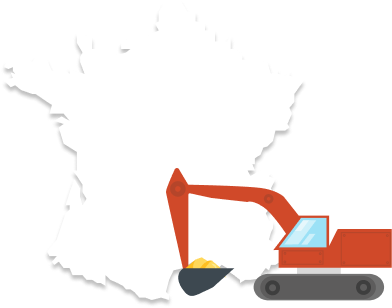
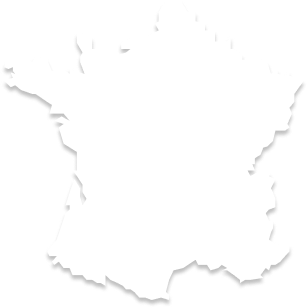
Intégration des Lotties

diff --git a/index.html b/index.html
@@ -1,11 +1,11 @@
 <!DOCTYPE html>
-<html lang="en">
+<html lang="fr">
 
 <head>
   <meta charset="UTF-8" />
   <meta name="viewport" content="width=device-width, initial-scale=1.0" />
   <title>Le sable, une ressource fragile?</title>
-  <link href="./src/style.css" rel="stylesheet" type="text/css"/>
+  <link href="./src/style.css" rel="stylesheet" type="text/css" />
   <link rel="icon" href="./assets/ademe-logo-2022-1.svg" type="image/x-icon">
   <script src="https://unpkg.com/@lottiefiles/dotlottie-wc@0.8.11/dist/dotlottie-wc.js" type="module"></script>
 
@@ -17,8 +17,7 @@
     <section class="grid grid-cols-1 grid-rows-1 h-screen bg-bg-blue">
 
       <!-- Pile de sable solo -->
-      <img class="col-span-full row-span-full w-auto h-auto justify-self-end mt-40"
-        src="./assets/single-sand-pile.png">
+      <img class="col-span-full row-span-full w-auto h-auto justify-self-end mt-40" src="./assets/single-sand-pile.png">
 
 
       <!-- Road bis -->
@@ -56,13 +55,16 @@
     <!-- Section 2 -->
     <section class="overflow-visible relative grid grid-cols-1 grid-rows-1 h-fit bg-bg-blue">
 
-      <h1 class="z-20 col-span-full row-span-full justify-self-start text-left font-extrabold text-4xl md:text-7xl lg:text-7xl max-w-350 pl-10 lg:pl-40 pb-100 mr-20"> 
+      <h1
+        class="z-20 col-span-full row-span-full justify-self-start text-left font-extrabold text-4xl md:text-7xl lg:text-7xl max-w-350 pl-10 lg:pl-40 pb-100 mr-20">
         50 milliards de tonnes de sable extraites chaque année</h1>
 
 
       <!-- transition piles de sables -->
       <section class="z-10 col-span-full row-span-full justify-self-end w-full">
-        <img class="pointer-events-none absolute bottom-50 lg:bottom-100 left-1/2 -translate-x-1/2 translate-y-1/2 w-full h-auto object-cover" src="./assets/sand-pile-transition.png" alt="Transition sable">
+        <img
+          class="pointer-events-none absolute bottom-50 lg:bottom-100 left-1/2 -translate-x-1/2 translate-y-1/2 w-full h-auto object-cover"
+          src="./assets/sand-pile-transition.png" alt="Transition sable">
       </section>
 
     </section>
@@ -70,7 +72,7 @@
 
 
 
-    
+
     <!-- Section 3 -->
     <section class="relative grid grid-cols-1 grid-rows-1 bg-bg-yellow h-fit">
 
@@ -88,8 +90,7 @@
 
 
       <!-- Text section -->
-      <section
-        class="col-span-full row-span-full flex w-full flex-col gap-30 lg:flex-row  px-40 pb-100 pt-400">
+      <section class="col-span-full row-span-full flex w-full flex-col gap-30 lg:flex-row  px-40 pb-100 pt-400">
         <section class="">
           <p class="text-xl lg:text-5xl font-bold">30000 Tonnes</p>
           <p class="text-xl lg:text-4xl">Un kilomètre d'autoroute</p>
@@ -102,12 +103,16 @@
 
 
       <!-- Titre -->
-      <h1 class="z-10 col-span-full row-span-full justify-self-start text-left font-extrabold text-4xl mr-30 md:text-5xl lg:text-7xl max-w-300 ml-10 lg:ml-40 pt-550 md:pt-450 lg:pt-400  xl:pt-450">D'ou viennent toutes ces tonnes de sable?</h1>
+      <h1
+        class="z-10 col-span-full row-span-full justify-self-start text-left font-extrabold text-4xl mr-30 md:text-5xl lg:text-7xl max-w-300 ml-10 lg:ml-40 pt-550 md:pt-450 lg:pt-400  xl:pt-450">
+        D'ou viennent toutes ces tonnes de sable?</h1>
 
 
       <!-- transition piles de roche -->
       <section class="col-span-full row-span-full w-full justify-self-end mt-300 h-350">
-        <img class="z-10 pointer-events-none absolute bottom-55 md:bottom-70 lg:bottom-70 xl:bottom-130 2xl:bottom-200 left-1/2 -translate-x-1/2 translate-y-1/2  w-full h-auto object-cover" src="./assets/rock-pile-transition.png" alt="Transition roche">
+        <img
+          class="z-10 pointer-events-none absolute bottom-55 md:bottom-70 lg:bottom-70 xl:bottom-130 2xl:bottom-200 left-1/2 -translate-x-1/2 translate-y-1/2  w-full h-auto object-cover"
+          src="./assets/rock-pile-transition.png" alt="Transition roche">
       </section>
 
     </section>
@@ -134,12 +139,13 @@
       </section>
 
     </section>
-    
+
 
     <section class="relative grid grid-cols-1 grid-rows-1 bg-bg-dark-grey h-fit">
       <!-- transition wave small -->
       <section class="z-10 col-span-full row-span-full justify-self-end w-full">
-        <img class="absolute bottom-455 w-full h-auto object-cover" src="./assets/small-wave.png" alt="Transition vague petite">
+        <img class="absolute bottom-455 w-full h-auto object-cover" src="./assets/small-wave.png"
+          alt="Transition vague petite">
       </section>
 
 
@@ -158,18 +164,18 @@
       <!-- Text section -->
       <section class="z-20 col-span-full row-span-full justify-self-start text-left max-w-300 pl-10 lg:pl-40 pt-250">
         <p class="lg:text-7xl text-5xl font-bold">60 à 70%</p>
-        <p class="lg:text-4xl text-xl">Du sable aurait été extrait  illégalement au Bangladesh</p>
+        <p class="lg:text-4xl text-xl">Du sable aurait été extrait illégalement au Bangladesh</p>
       </section>
 
 
       <!-- Ceci sert à rendre le fond de plage jaune avant la grande vague -->
       <section class="absolute top-205 h-200 z-10 col-span-full row-span-full justify-self-end w-full bg-bg-yellow">
       </section>
-  
+
       <!-- Ceci sert à rendre le fond de mer avant le lottie-->
       <section class="absolute top-455 h-250 z-10 col-span-full row-span-full justify-self-end w-full bg-bg-dark-blue">
       </section>
-  
+
       <!--Lottie: Transition big wave -->
       <section class="z-20 col-span-full row-span-full justify-self-end w-full mt-285 overflow-clip">
         <dotlottie-wc src="https://lottie.host/81cd22a3-d44f-4681-a8be-3dd3101f06d9/FoEViopkZA.lottie"
@@ -198,7 +204,7 @@
 
       <!-- card container -->
       <section class="flex flex-col px-5 lg:px-40 py-100 gap-10 z-20 col-span-full row-span-full text-center -mt-270">
-        
+
         <section class="bg-white rounded-xl p-5 opacity-80">
           <p class="text-xl lg:text-3xl">75 à 90 % des plages reculent dans le monde.</p>
         </section>
@@ -206,7 +212,8 @@
           <p class="text-xl lg:text-3xl">9 plages sur 10 sont en voie de disparition en Floride</p>
         </section>
         <section class="bg-white rounded-xl p-5 opacity-80">
-          <p class="text-xl lg:text-3xl">25 % du sable exploitable est retenu par des barrages, ce qui empêche la régénération</p>
+          <p class="text-xl lg:text-3xl">25 % du sable exploitable est retenu par des barrages, ce qui empêche la
+            régénération</p>
         </section>
       </section>
 
@@ -215,12 +222,15 @@
       <section class="col-span-full row-span-full  flex flex-col gap-5">
 
         <!-- quizz question Carded text-->
-        <section class="z-20  justify-self-start mx-10 lg:mx-40 text-center bg-white rounded-xl h-fit w-fit opacity-80 p-10">
-          <p class="text-2xl lg:text-4xl font-bold">Quel est le pourcentage de sable utilisable à des fins industrielles ?</p>
+        <section
+          class="z-20  justify-self-start mx-10 lg:mx-40 text-center bg-white rounded-xl h-fit w-fit opacity-80 p-10">
+          <p class="text-2xl lg:text-4xl font-bold">Quel est le pourcentage de sable utilisable à des fins industrielles
+            ?</p>
         </section>
 
         <!-- Text section quizz -->
-        <section class=" z-20 justify-self-start text-left w-fit px-10 lg:px-40 text-xl lg:text-3xl font-bold gap-5 flex flex-col">
+        <section
+          class=" z-20 justify-self-start text-left w-fit px-10 lg:px-40 text-xl lg:text-3xl font-bold gap-5 flex flex-col">
           <checkbox class="bg-white rounded-xl p-5 opacity-80">5%</checkbox>
           <checkbox class="bg-white rounded-xl p-5 opacity-80">15%</checkbox>
           <checkbox class="bg-white rounded-xl p-5 opacity-80">25%</checkbox>
@@ -232,7 +242,7 @@
           <p class="bg-white text-2xl rounded-xl w-fit p-5 opacity-80">Seulement 5% !</p>
         </section>
 
-        
+
       </section>
     </section>
 
@@ -246,8 +256,12 @@
     <section class="relative grid grid-cols-1 grid-rows-1 bg-bg-yellow h-300">
 
       <!-- Titre + txt -->
-      <h1 class="z-10 col-span-full row-span-full justify-self-start text-left font-extrabold text-5xl lg:text-8xl pl-20 lg:pl-40 pt-50 xl:pl-230 ">Mais alors, ou est utilisé le sable extrait des plages?</h1>
-      <p class="z-10 col-span-full row-span-full text-left font-bold text-2xl lg:text-4xl max-w-400 pl-50 md:pl-80 lg:pl-230 pt-180">59 % de ce sable est utilisé dans la fabrication de béton</p>
+      <h1
+        class="z-10 col-span-full row-span-full justify-self-start text-left font-extrabold text-5xl lg:text-8xl pl-20 lg:pl-40 pt-50 xl:pl-230 ">
+        Mais alors, ou est utilisé le sable extrait des plages?</h1>
+      <p
+        class="z-10 col-span-full row-span-full text-left font-bold text-2xl lg:text-4xl max-w-400 pl-50 md:pl-80 lg:pl-230 pt-180">
+        59 % de ce sable est utilisé dans la fabrication de béton</p>
 
 
       <!-- transition béton -->
@@ -265,7 +279,9 @@
         <img class="w-full h-auto object-cover" src="./assets/rain.png" alt="rain">
       </section>
       <section class="z-10 col-span-full row-span-full justify-self-start mt-0 ml-80">
-        <img class="w-l h-auto object-cover" src="./assets/cloud.png" alt="single cloud">
+
+        <dotlottie-wc class="lg:w-200 w-full h-min object-cover"
+          src="https://lottie.host/c118ade8-1d81-4769-b469-59bab97fde78/IhTUQmaTQy.lottie" autoplay loop></dotlottie-wc>
       </section>
       <section class="z-15 col-span-full row-span-full justify-self-start mt-133 pl-80">
         <img class="w-l h-auto object-cover" src="./assets/chimney.png" alt="chimney">
@@ -276,9 +292,11 @@
 
 
       <!-- Text section -->
-      <p class="col-span-full row-span-full z-10 text-3xl font-bold pl-10 lg:pl-120 pt-45 max-w-300"> 45,6 millions de tonnes de déchets produits annuellement par le secteur du bâtiment en France</p>
-      <p class="col-span-full row-span-full z-10 text-3xl max-w-400 font-bold pl-10 lg:pl-120 pt-150"> 8 % des émissions mondialles de gaz à effet de serre sont dues au béton</p>
-      
+      <p class="col-span-full row-span-full z-10 text-3xl font-bold pl-10 lg:pl-120 pt-45 max-w-300"> 45,6 millions de
+        tonnes de déchets produits annuellement par le secteur du bâtiment en France</p>
+      <p class="col-span-full row-span-full z-10 text-3xl max-w-400 font-bold pl-10 lg:pl-120 pt-150"> 8 % des émissions
+        mondialles de gaz à effet de serre sont dues au béton</p>
+
 
       <!-- cloud transition -->
       <section class="z-20 col-span-full row-span-full w-full justify-self-start mt-250">
@@ -294,11 +312,13 @@
             <img class="w-full h-auto object-cover" src="./assets/discharge.png" alt="décharges gravats">
           </section>
 
-          <p class="col-span-full row-span-full z-10 text-xl lg:text-3xl max-w-400 font-bold">580 décharges sauvages de gravats identifiées à ce jour</p>
-       
+          <p class="col-span-full row-span-full z-10 text-xl lg:text-3xl max-w-400 font-bold">580 décharges sauvages de
+            gravats identifiées à ce jour</p>
+
         </section>
 
-        <p class="col-span-full row-span-full z-10 text-xl lg:text-3xl max-w-400 font-bold pl-10 lg:pl-40">39 millions de tonnes de déchets sont générés annuellement par les ménages français</p>
+        <p class="col-span-full row-span-full z-10 text-xl lg:text-3xl max-w-400 font-bold pl-10 lg:pl-40">39 millions
+          de tonnes de déchets sont générés annuellement par les ménages français</p>
       </section>
     </section>
 
@@ -318,6 +338,9 @@
         <section class="flex flex-col md:flex-row lg:flex-row">
           <section class="max-h-70">
             <img class="w-full h-auto object-cover" src="./assets/france.png" alt="Country picto">
+            <dotlottie-wc class="w-75 h-50 break-after-auto absolute -translate-y-45"
+              src="https://lottie.host/9ea9af28-966d-4059-9bf5-e16a825d39d0/OVA1kZ1L94.lottie" autoplay
+              loop></dotlottie-wc>
           </section>
           <section class="flex flex-col gap-2">
             <h2 class="text-3xl lg:text-6xl font-bold">France<h2>
@@ -372,13 +395,20 @@
     <section class="relative z-20 grid grid-cols-1 grid-rows-1 bg-bg-grey">
 
 
-      <h1 class="z-10 col-span-full row-span-full justify-self-start text-left font-extrabold text-3xl lg:text-8xl max-w-400 lg:pl-40 pl-10 pt-70"> Quelques méthodes de lutte contre la surconsomation de béton</h1>
+      <h1
+        class="z-10 col-span-full row-span-full justify-self-start text-left font-extrabold text-3xl lg:text-8xl max-w-400 lg:pl-40 pl-10 pt-70">
+        Quelques méthodes de lutte contre la surconsomation de béton</h1>
       <section class="px-40 py-30 gap-20 flex flex-col">
         <section class="flex flex-col lg:flex-row gap-10">
           <section class="">
-            <img class="w-full h-auto object-cover" src="./assets/recycle.png" alt="Country picto">
+            <dotlottie-wc class="w-100 h-100 object-cover"
+              src="https://lottie.host/be679607-6914-4a66-83e2-4fbf2b58c125/vx1mBfioVF.lottie" autoplay
+              loop></dotlottie-wc>
+
           </section>
-          <h2 class="self-center text-2xl lg:text-4xl pl-10">Seulement <bold class="font-bold text-3xl lg:text-6xl">20 à 35 %</bold> des besoins
+
+          <h2 class="self-center text-2xl lg:text-4xl pl-10">Seulement <bold class="font-bold text-3xl lg:text-6xl">20 à
+              35 %</bold> des besoins
             annuels du marché du béton français sont comblés avec du béton recyclé</h2>
         </section>
 
@@ -387,14 +417,17 @@
             <img class="w-full h-auto object-cover" src="./assets/smaller-home.png" alt="Country picto">
           </section>
           <h2 class="self-center text-2xl lg:text-4xl pl-10">
-            <bold class="font-bold text-3xl lg:text-6xl">-100 m² par personne:</bold> Diminution des tailles des habitations du à la
+            <bold class="font-bold text-3xl lg:text-6xl">-100 m² par personne:</bold> Diminution des tailles des
+            habitations du à la
             pénurie de sable
           </h2>
         </section>
       </section>
 
       <section class="w-full">
-        <img class="absolute -bottom-30 md:-bottom-50 lg:-bottom-90 xl:-bottom-120 2xl:-bottom-150 left-0 w-full object-cover pointer-events-noner" src="./assets/clouds-transition2.png" alt="Clouds transition">
+        <img
+          class="absolute -bottom-30 md:-bottom-50 lg:-bottom-90 xl:-bottom-120 2xl:-bottom-150 left-0 w-full object-cover pointer-events-noner"
+          src="./assets/clouds-transition2.png" alt="Clouds transition">
       </section>
 
 
@@ -428,7 +461,7 @@
       <h1 class="z-10 justify-self-start text-left font-extrabold text-3xl lg:text-6xl pl-10 lg:pl-40 pt-20">
         Et donc, quelles conséquences pour le futur?</h1>
 
-        
+
       <!-- Sand demand container -->
       <section class="flex flex-col md:flex-row gap-10 pt-20 ml-10 lg:ml-40">
         <!-- Illu sand demand rising -->
@@ -442,7 +475,8 @@
 
       <!-- bangladais exode container -->
       <section class="flex flex-col-reverse md:flex-row gap-10 ml-10 lg:ml-40 mb-100">
-        <p class="text-left text-2xl lg:text-4xl">20 à 50 millions Bangladaises et Bangladais devront se déplacer d'ici 2050 à cause de l'érosion</p>
+        <p class="text-left text-2xl lg:text-4xl">20 à 50 millions Bangladaises et Bangladais devront se déplacer d'ici
+          2050 à cause de l'érosion</p>
         <!-- Illu bangladais partant -->
         <section class="justify-self-end mr-40">
           <img class="w-200 h-auto object-cover" src="./assets/moving-people.svg" alt="people leaving">
@@ -452,7 +486,8 @@
 
       <!-- Illu eau -->
       <section class="z-20 col-span-full row-span-full w-full mt-50">
-        <img class="-bottom-30 md:-bottom-60 left-0 xl:-bottom-100 absolute w-full h-auto object-cover" src="./assets/water.png" alt="Water">
+        <img class="-bottom-30 md:-bottom-60 left-0 xl:-bottom-100 absolute w-full h-auto object-cover"
+          src="./assets/water.png" alt="Water">
       </section>
 
     </section>
@@ -469,7 +504,8 @@
 
 
       <!-- Titre final -->
-      <h1 class="col-span-full row-span-full justify-self-center text-left font-extrabold text-2xl lg:text-6xl pt-100">Le sable, une
+      <h1 class="col-span-full row-span-full justify-self-center text-left font-extrabold text-2xl lg:text-6xl pt-100">
+        Le sable, une
         ressource fragile</h1>
 
 
